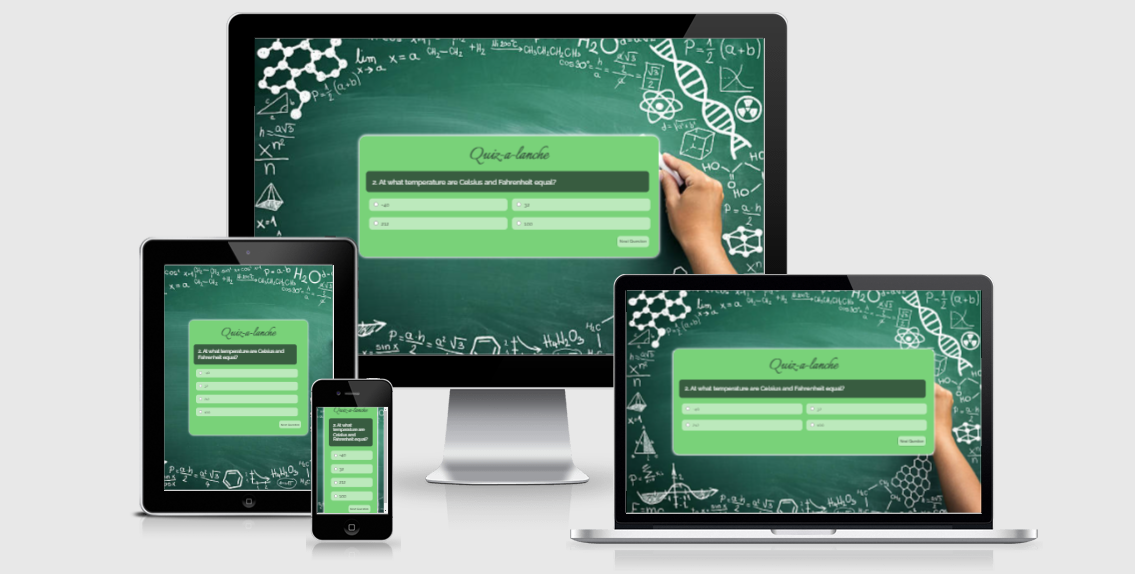
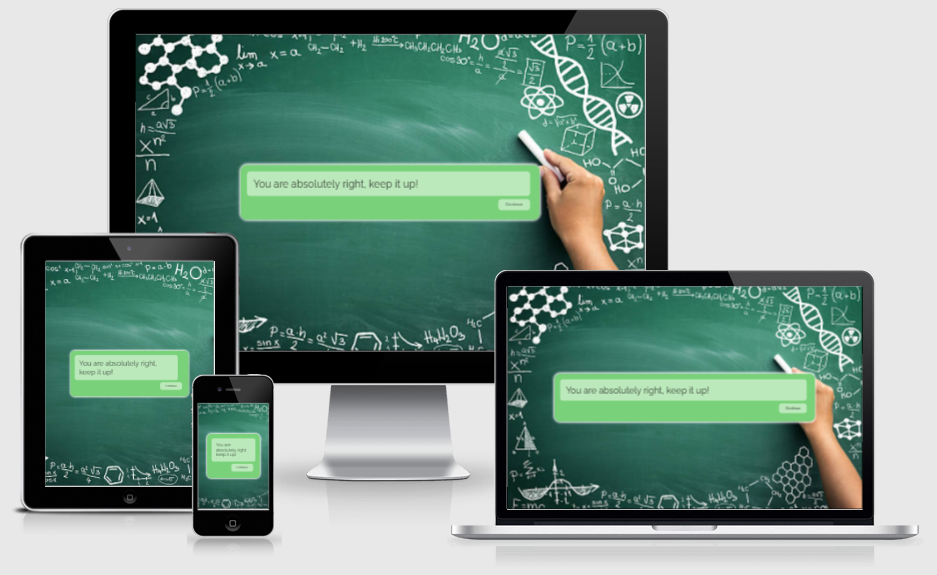
Add content about bug fixing in readme.md

diff --git a/README.md b/README.md
@@ -115,9 +115,7 @@ Option containers and the Next Question button has **light gray** rgba(255, 255,
 
  * If the Next Question Button without making any selection, it pops an alert saying "Please, select and option!"
 
- * When an option is selected and Next Qestion Button is pressed, the selcted option is checked against the correct answer provided in "question.js".
-
- * If the selected option matches the correct answer the background color of the Quiz Container changes to green otherwise it turns red.
+ * When an option is selected and Next Qestion Button is pressed, the selcted option is checked against the correct answer provided in "question.js" and Quiz container disappears and a message box appears with either green or red background colour, showing whether user has picked the correct answer or not. Plus it has a Continue button at the bottom right corner to continue to the rest of the quiz.
 
  <img src="docs/correct.png">
  <img src="docs/incorrect.png">
@@ -211,9 +209,15 @@ I used Gitpod IDE to code my website.
 
     - Quiz Container and the Option containers cover same amount of space horizomtally.
 
-    - Next Question button stays at the right hand bottom corner and changes it's text content to Finish as the last question displays on the screen.
+    - Quiz container disappears as user clicks Next Question button after selectin an answer and a message box appears. 
+    
+    - The message box shows up with either green or red background colour depending the selected answer.
+    
+    - The message box has a Continue button at the bottom right corner to continue to the rest of the quiz.
 
-    - Quiz container changes it's background color as the answer is picked by user, green for selecting the right answer and red if the wrong answer is selected.
+    - Next Question button stays at the right hand bottom corner of the Quiz container and changes it's text content to Finish as the last question displays on the screen.
+
+    - As user clicks the Finish button the Quiz container disappears again and shows up the Result container with the achieved score.
 
 <img src="docs/testing-chrome.png">
 <img src="docs/testing-edge.png">
@@ -241,7 +245,8 @@ I used Gitpod IDE to code my website.
 <a></a>
 ## Fixed Bugs
 
-* 
+* Originally the Quiz container was changing the backgoud colour to either green or red to show the user if the selected answer was correct ot not. But it was not changing it back to original state before the next question appears on the screen. 
+    To solve it I created an new container to show the message showing whether the selected answer is correct or not with a Continue button to go back to Quiz. Plus this container shows up either with green or red background color, depending on the selected answer. This container replaces the Quiz Container after user clicks Next Question Button.
 
 [Back to Top](#table-of-contents)
 
